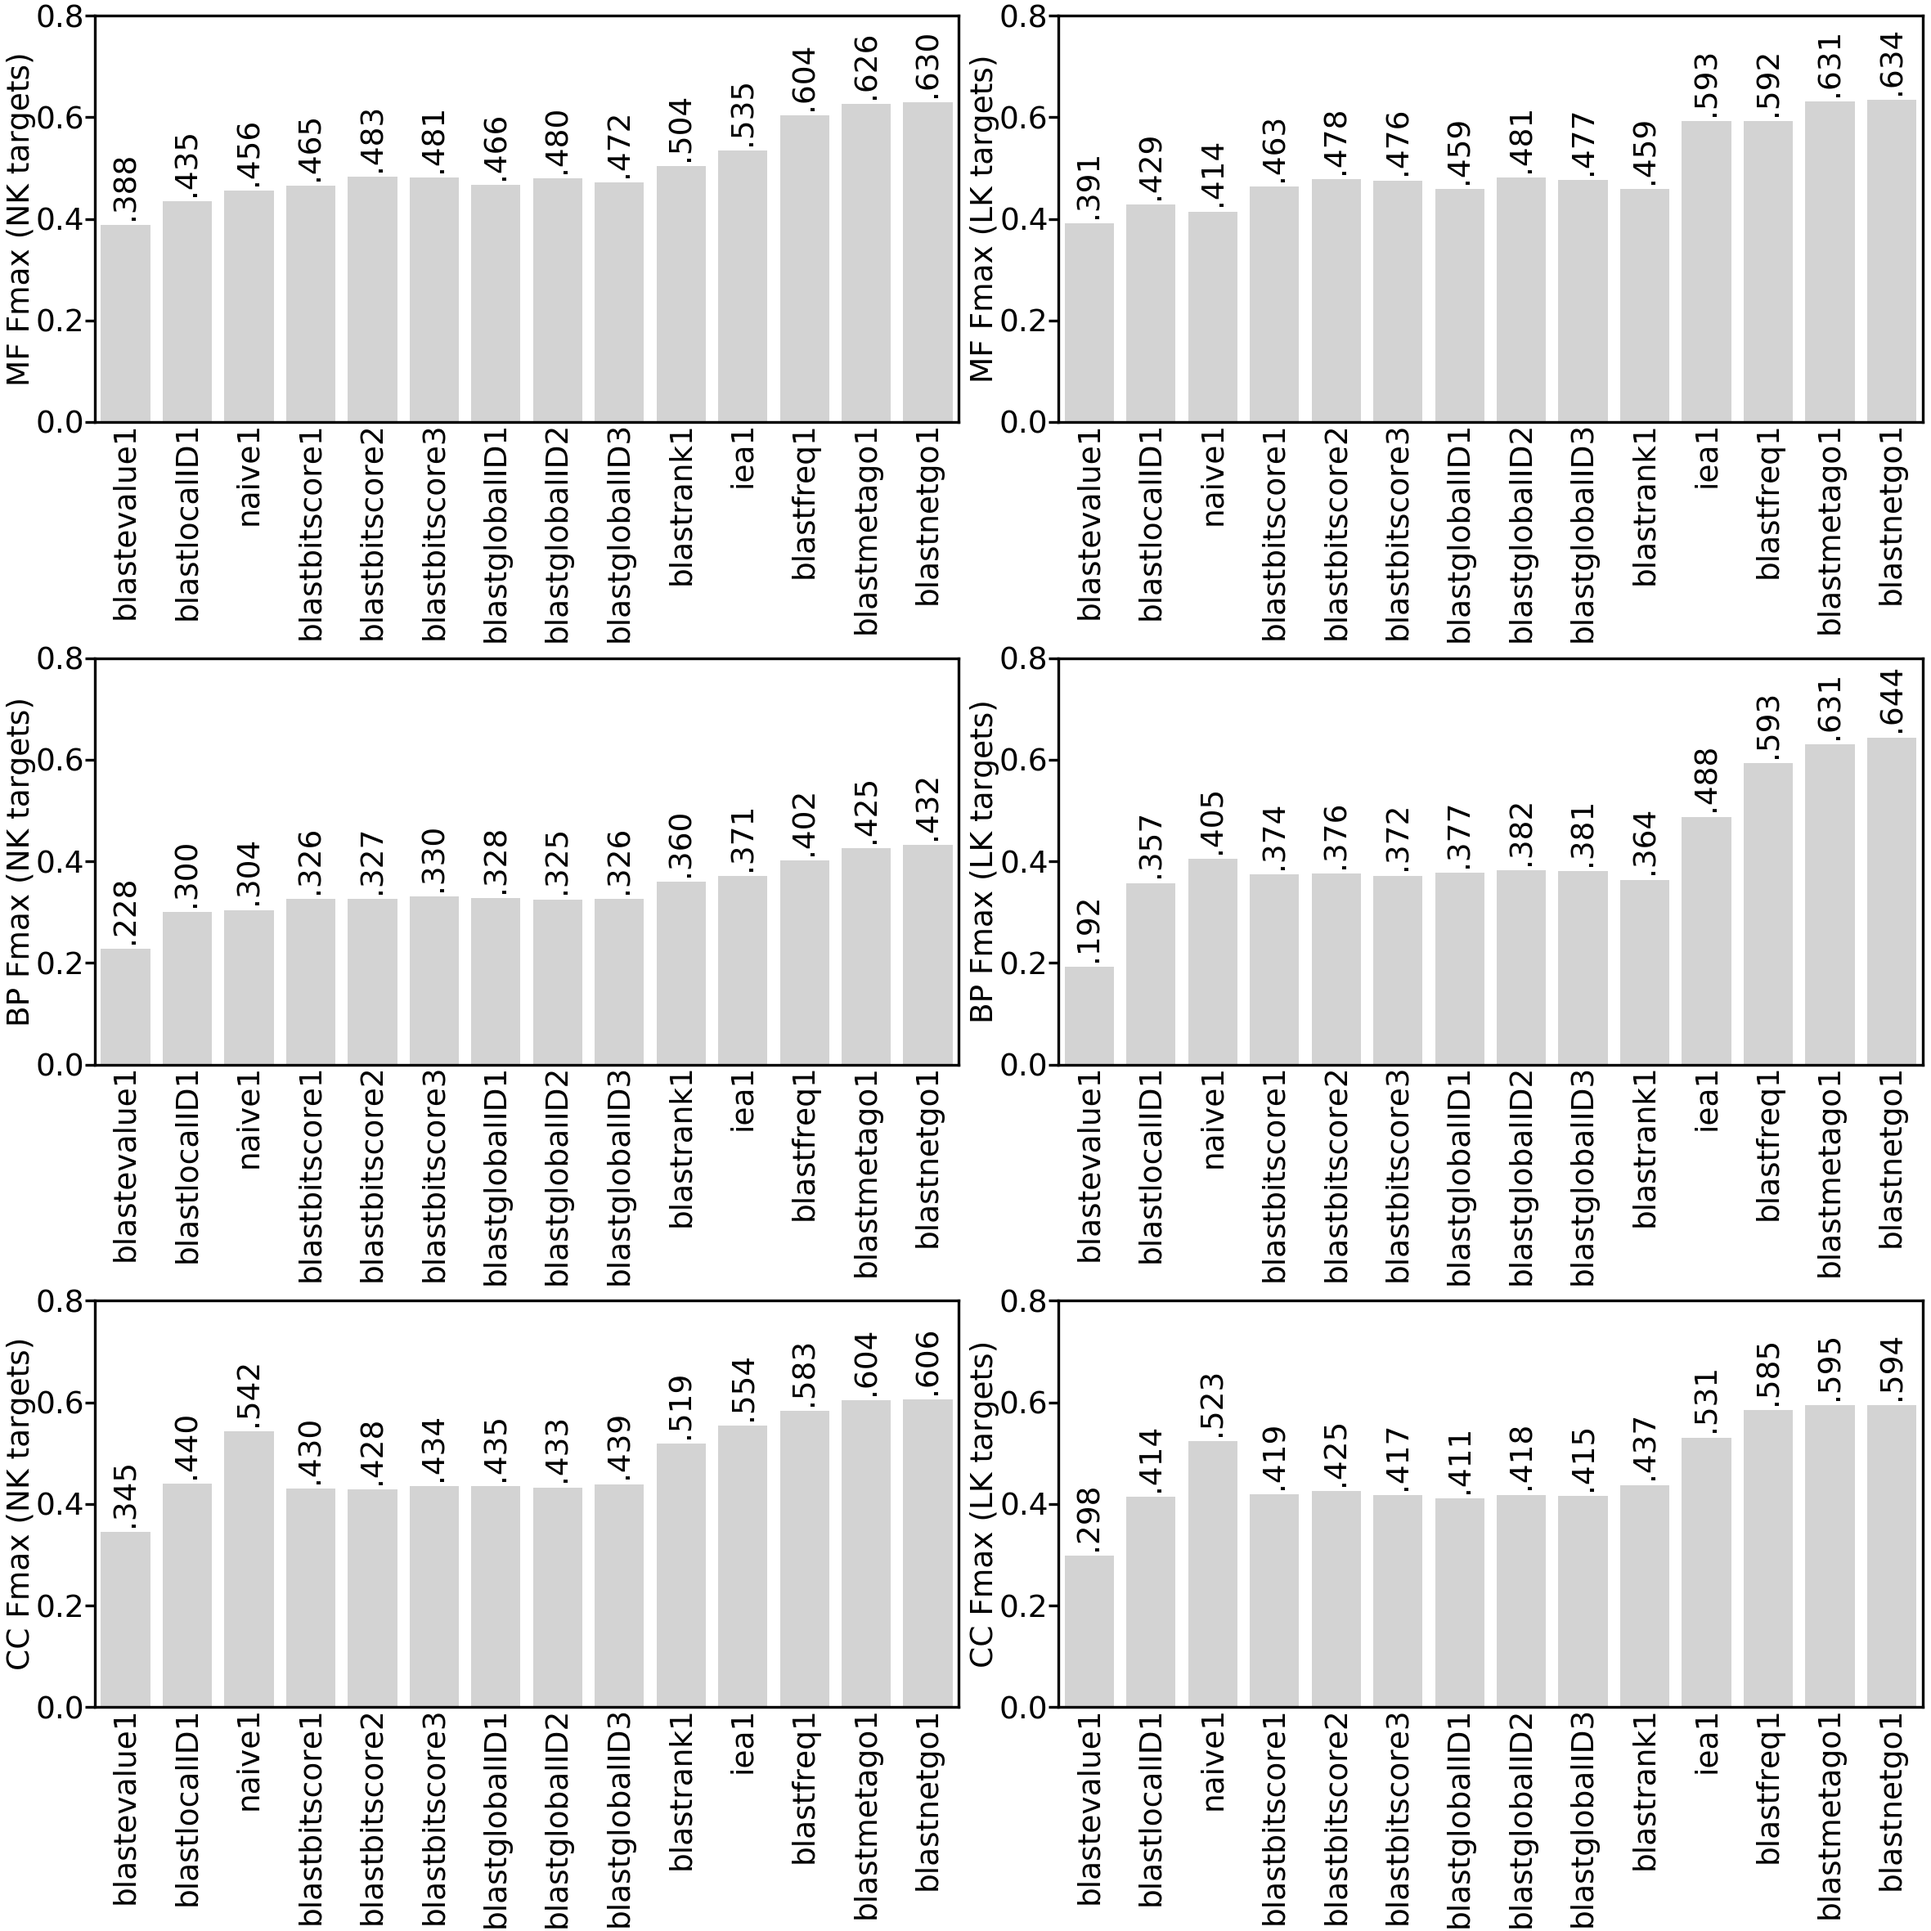
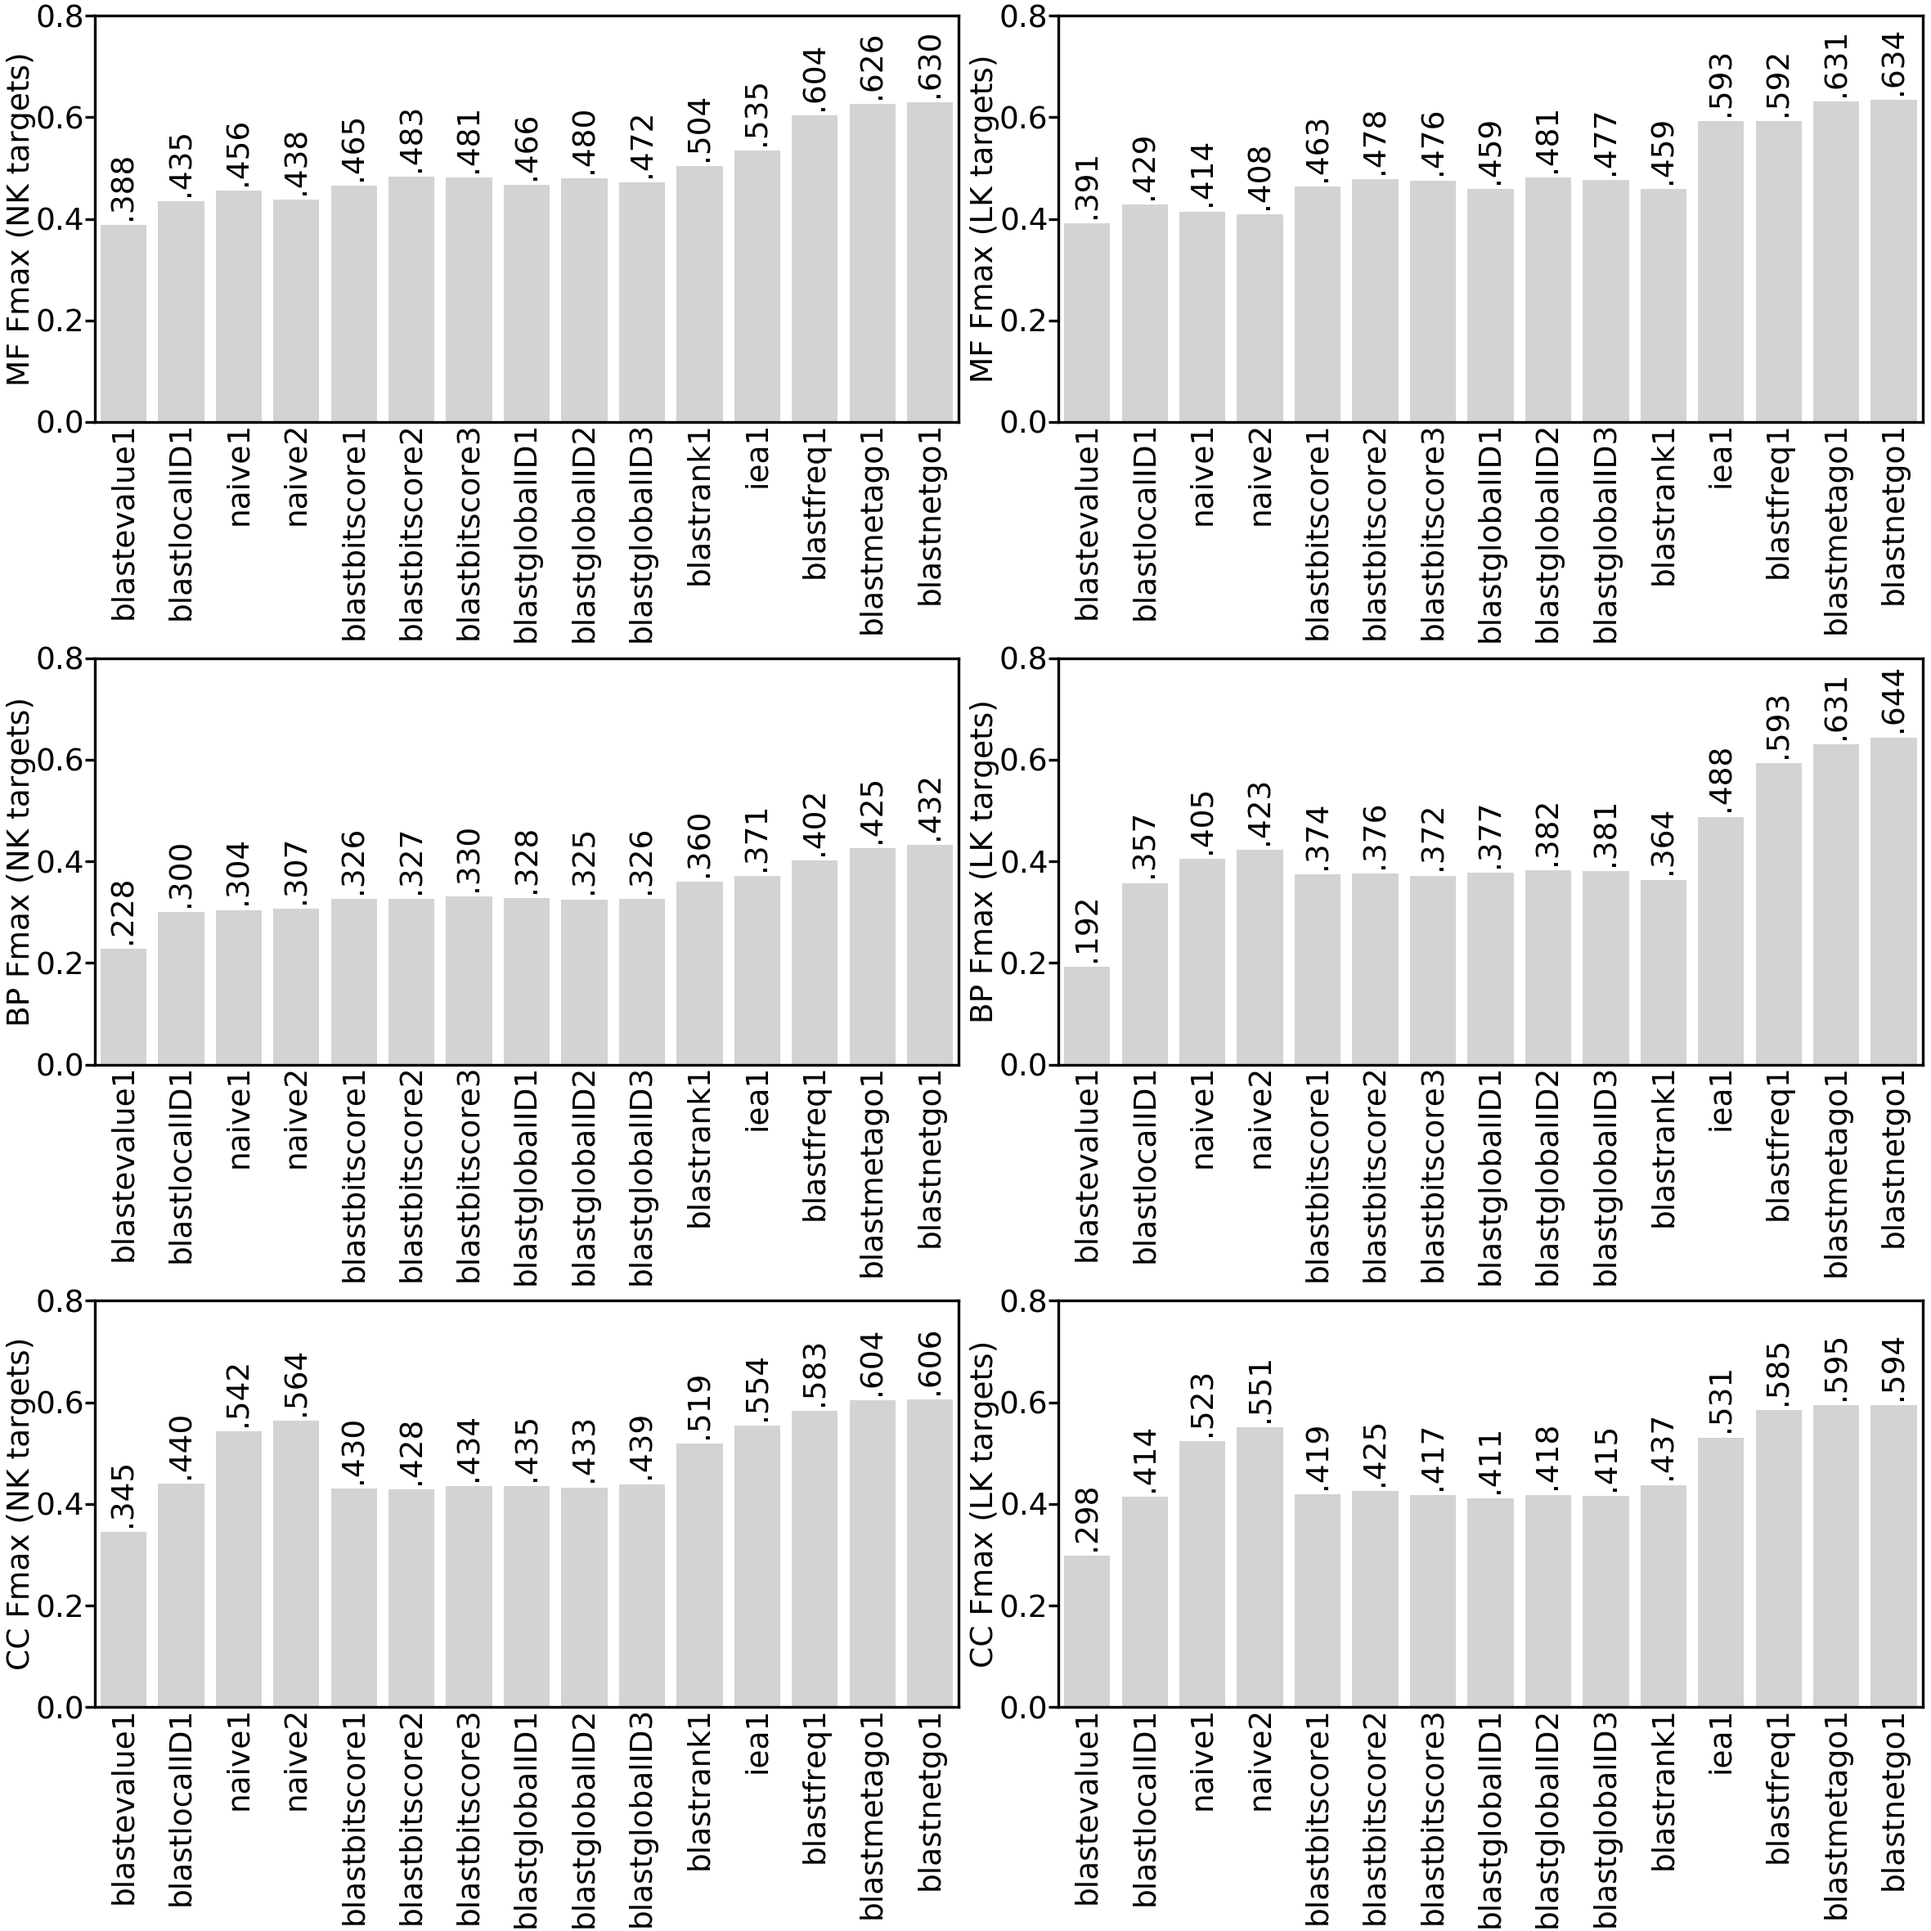
naive2

diff --git a/results/plot.py b/results/plot.py
@@ -11,6 +11,7 @@ method_list=[
     "blastevalue_1",
     "blastlocalID_1",
     "naive_1",
+    "naive_2",
     "blastbitscore_1",
     "blastbitscore_2",
     "blastbitscore_3",
